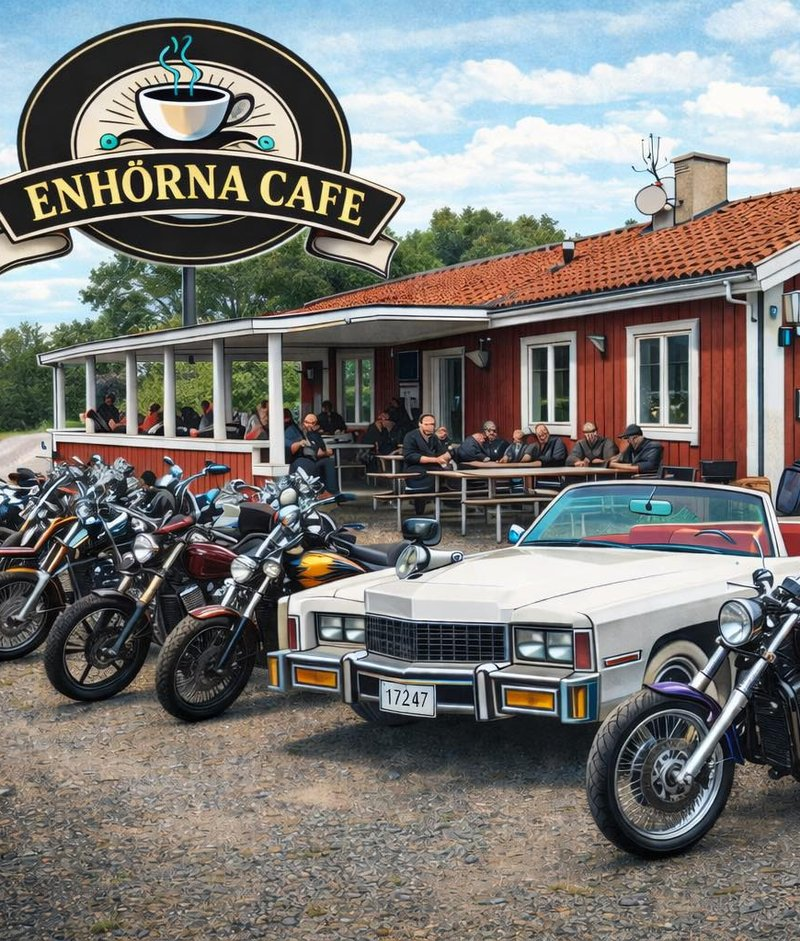
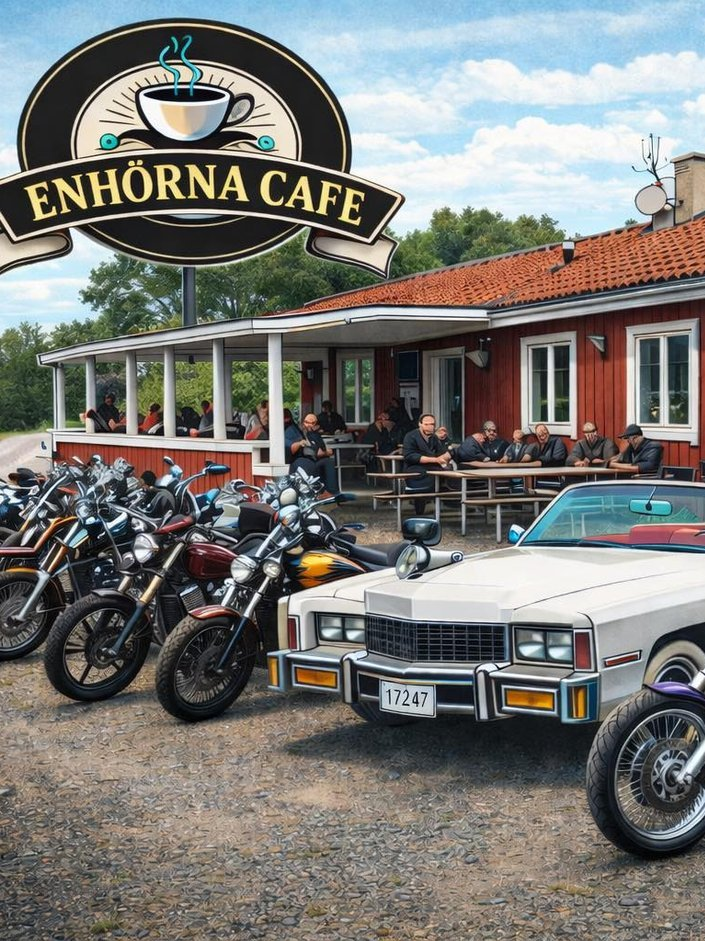
Add MC-Dagen Sundsvall, Ruskträffen, No Name MC plats; uniform poster card height; hide calendar btn on AD cards

diff --git a/index.html b/index.html
@@ -862,6 +862,8 @@
   .card.poster-card .card-front { padding: 0; cursor: pointer; }
   .card.poster-card .card-front .poster-front-img {
     width: 100%; display: block;
+    aspect-ratio: 3 / 4;
+    object-fit: cover;
     border-radius: var(--radius);
   }
   .card.poster-card .card-back-flip { padding: 20px; background: var(--bg-card); } /* Back side gets its own padding + bg */